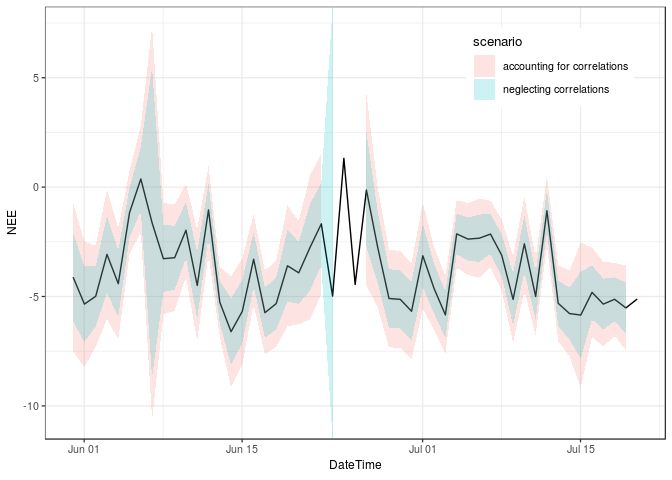
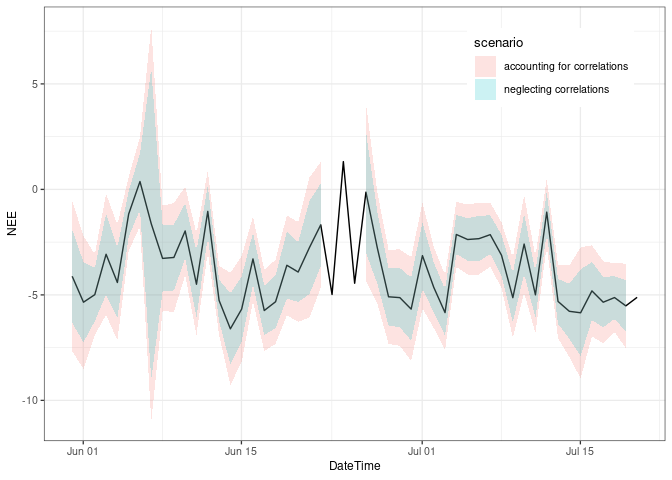
Docu fsd (#53)
* include uStar uncertainty in aggUncertainty vignette

* include uStar uncertainty in aggUncertainty vignette

* try fixing number display

that starts with 1 after each code-block.

* Update aggUncertainty.Rmd

Small clarification (by Ladislav) <sigut.l@czechglobe.cz>

diff --git a/vignettes/aggUncertainty.md b/vignettes/aggUncertainty.md
@@ -1,13 +1,11 @@
-Aggregating uncertainty to daily and annual values
-==================================================
+# Aggregating uncertainty to daily and annual values
 
-Example setup
--------------
+## Example setup
 
-We start with half-hourly *u*<sub>\*</sub>-filtered and gap-filled
-NEE\_f values. For simplicity this example uses data provided with the
-package and omits *u*<sub>\*</sub> threshold detection but rather
-applies a user-specified threshold.
+We start with half-hourly *u*<sub>\*</sub>-filtered and gapfilled NEE\_f
+values. For simplicity this example uses data provided with the package
+and omits *u*<sub>\*</sub> threshold detection but rather applies a
+user-specified threshold.
 
 With option `FillAll = TRUE`, an uncertainty, specifically the standard
 deviation, of the flux is estimated for each record during gapfilling
@@ -22,19 +20,57 @@ and stored in variable `NEE_uStar_fsd`.
       'DE-Tha', EddyDataWithPosix, c('NEE','Rg','Tair','VPD', 'Ustar'))
     EProc$sMDSGapFillAfterUstar('NEE', uStarTh = 0.3, FillAll = TRUE)
     results <- EProc$sExportResults() 
-    summary(results$NEE_uStar_fsd)
+    results_good <- results %>% filter(NEE_uStar_fqc <= 1) 
+    summary(results_good$NEE_uStar_fsd)
 
     ##     Min.  1st Qu.   Median     Mean  3rd Qu.     Max. 
-    ##  0.03535  1.69960  2.32796  2.74246  3.44417 24.55782
+    ##  0.03535  1.69194  2.31331  2.70544  3.39922 17.19675
 
 We can inspect, how the uncertainty scales with the flux magnitude.
 
-    plot( NEE_uStar_fsd ~ NEE_uStar_fall, slice(results, sample.int(nrow(results),400)))
+    results_good %>% slice(sample.int(nrow(results_good),400)) %>% 
+    plot( NEE_uStar_fsd ~ NEE_uStar_fall, data = . )
 
 ![](aggUncertainty_files/figure-markdown_strict/unnamed-chunk-3-1.png)
 
-Wrong aggregation without correlations
---------------------------------------
+## Omitting problematic records
+
+REddyProc flags filled data with poor gap-filling by a quality flag in
+`NEE_<uStar>_fqc` &gt; 0 but still reports the fluxes. For aggregation
+we recommend computing the mean including those gap-filled records,
+i.e. using `NEE_<uStar>_f` instead of `NEE_orig`. However, for
+estimating the uncertainty of the aggregated value, the the gap-filled
+records should not contribute to the reduction of uncertainty due to
+more replicates.
+
+Hence, first we create a column similar `NEE_orig_sd` to
+`NEE_<uStar>_fsd` but where the estimated uncertainty is set to missing
+for the gap-filled records.
+
+    results <- EProc$sExportResults() %>% 
+      mutate(
+        NEE_orig_sd = ifelse(
+          is.finite(.data$NEE_uStar_orig), .data$NEE_uStar_fsd, NA),
+        NEE_uStar_fgood = ifelse(
+          is.finite(.data$NEE_uStar_fqc <= 1), .data$NEE_uStar_f, NA)
+    )
+
+If the aggregated mean should be computed excluding poor
+quality-gap-filled data, then its best to use a column with values set
+to missing for poor quality, e.g. using `NEE_<uStar>_fgood` instead of
+`NEE_<uStar>_f`. However, the bias in aggregated results can be larger
+when omitting records, e.g. consistently omitting more low night-time
+fluxes, than with using poor estimates of those fluxes.
+
+## Random error
+
+For a given u\* threshold, the aggregation across time uses many
+records. The random error in each record, i.e. `NEE_fsd`, is only
+partially correlated to the random error to records close by. Hence, the
+relative uncertainty of the aggregated value decreases compared to the
+average relative uncertainty of the individual observations.
+
+### Wrong aggregation without correlations
 
 With neglecting correlations among records, the uncertainty of the mean
 annual flux is computed by adding the variances. The mean is computed by
@@ -43,24 +79,24 @@ $sd(m) = \\sqrt{Var(m)}= \\sqrt{\\sum{Var(x\_i)}/n^2} = \\sqrt{n \\bar{\\sigma^2
 This results in an approximate reduction of the average standard
 deviation $\\bar{\\sigma^2}$ by $\\sqrt{n}$.
 
-    results %>% filter(NEE_uStar_fqc == 0) %>% summarise(
-      nRec = sum(is.finite(NEE_uStar_f))
-      , varSum = sum(NEE_uStar_fsd^2, na.rm = TRUE)
+    results %>% summarise(
+      nRec = sum(is.finite(NEE_orig_sd))
+      , NEEagg = mean(NEE_uStar_f)
+      , varSum = sum(NEE_orig_sd^2, na.rm = TRUE)
       , seMean = sqrt(varSum) / nRec
-      , seMeanApprox = mean(NEE_uStar_fsd, na.rma = TRUE) / sqrt(nRec)
-      ) %>% select(nRec, seMean, seMeanApprox)
+      , seMeanApprox = mean(NEE_orig_sd, na.rm = TRUE) / sqrt(nRec)
+      ) %>% select(NEEagg, nRec, seMean, seMeanApprox)
 
-    ##    nRec     seMean seMeanApprox
-    ## 1 10901 0.02988839   0.02650074
+    ##      NEEagg  nRec     seMean seMeanApprox
+    ## 1 -1.657303 10901 0.02988839   0.02650074
 
 Due to the large number of records, the estimated uncertainty is very
 low.
 
-Considering correlations
-------------------------
+### Considering correlations
 
 When observations are not independent of each other, the formulas now
-become *V**a**r*(*m*)=*s*<sup>2</sup>/*n*<sub>*e**f**f*</sub> where
+become *V**a**r*(*m*) = *s*<sup>2</sup>/*n*<sub>*e**f**f*</sub> where
 $s^2 = \\frac{n\_{eff}}{n(n\_{eff}-1)} \\sum\_{i=1}^n \\sigma\_i^2$, and
 with the number of effective observations *n*<sub>*e**f**f*</sub>
 decreasing with the autocorrelation among records (Bayley 1946, Zieba
@@ -76,36 +112,43 @@ Var(m) = \\frac{s^2}{n\_{eff}}
 = \\frac{1}{n(n\_{eff}-1)} n \\bar{\\sigma^2\_i} = \\frac{\\bar{\\sigma^2\_i}}{(n\_{eff}-1)} 
 $$
 
-First we need to quantify the error terms, i.e. model-data residuals.
+First we need to quantify the error terms, i.e. model-data residuals.
 For all the records of good quality, we have an original measured value
 `NEE_uStar_orig` and modelled value from MDS gapfilling,
-`NEE_uStar_fall`. The residual of bad-quality data is set to missing.
+`NEE_uStar_fall`.
+
+For computing autocorrelation, equidistant time steps are important.
+Hence, instead of filtering, the residuals of bad-quality data are set
+to missing.
 
     results <- EProc$sExportResults() %>% 
       mutate(
-        resid = ifelse(NEE_uStar_fqc == 0, NEE_uStar_orig - NEE_uStar_fall, NA )
+        resid = ifelse(NEE_uStar_fqc == 0, NEE_uStar_orig - NEE_uStar_fall, NA)
+        ,NEE_orig_sd = ifelse(
+          is.finite(.data$NEE_uStar_orig), .data$NEE_uStar_fsd, NA)
       )
 
 Now we can inspect the the autocorrelation of the errors.
 
     acf(results$resid, na.action = na.pass, main = "")
 
-![](aggUncertainty_files/figure-markdown_strict/unnamed-chunk-6-1.png)
+![](aggUncertainty_files/figure-markdown_strict/unnamed-chunk-7-1.png)
 
 The empirical autocorrelation function shows strong positive
 autocorrelation in residuals up to a lag of 10 records.
 
 Computation of effective number of observations is provided by function
 `computeEffectiveNumObs` from package `lognorm` based on the empirical
-autocorrelation function for given model-data residuals.
+autocorrelation function for given model-data residuals. Note that this
+function needs to be applied to the series including all records, i.e. 
+not filtering quality flag before.
 
-    library(lognorm)
-    autoCorr <- computeEffectiveAutoCorr(results$resid)
-    nEff <- computeEffectiveNumObs(results$resid, na.rm = TRUE)
-    c( nEff = nEff, nObs = sum(is.finite(results$resid)))
+    autoCorr <- lognorm::computeEffectiveAutoCorr(results$resid)
+    nEff <- lognorm::computeEffectiveNumObs(results$resid, na.rm = TRUE)
+    c(nEff = nEff, nObs = sum(is.finite(results$resid)))
 
     ##      nEff      nObs 
-    ##  3870.283 10901.000
+    ##  4230.522 10901.000
 
 We see that the effective number of observations is only about a third
 of the number of observations.
@@ -113,19 +156,26 @@ of the number of observations.
 Now we can use the formulas for the sum and the mean of correlated
 normally distributed variables to compute the uncertainty of the mean.
 
-    results %>% filter(NEE_uStar_fqc == 0) %>% summarise(
-      nRec = sum(is.finite(NEE_uStar_fsd))
-      , varMean = sum(NEE_uStar_fsd^2, na.rm = TRUE) / nRec / (!!nEff - 1)
+    resRand <- results %>% summarise(
+      nRec = sum(is.finite(NEE_orig_sd))
+      , NEEagg = mean(NEE_uStar_f, na.rm = TRUE)
+      , varMean = sum(NEE_orig_sd^2, na.rm = TRUE) / nRec / (!!nEff - 1)
       , seMean = sqrt(varMean) 
-      #, seMean2 = sqrt(mean(NEE_uStar_fsd^2, na.rm = TRUE)) / sqrt(!!nEff - 1)
-      , seMeanApprox = mean(NEE_uStar_fsd, na.rm = TRUE) / sqrt(!!nEff - 1)
-      ) %>% select(seMean, seMeanApprox)
+      #, seMean2 = sqrt(mean(NEE_orig_sd^2, na.rm = TRUE)) / sqrt(!!nEff - 1)
+      , seMeanApprox = mean(NEE_orig_sd, na.rm = TRUE) / sqrt(!!nEff - 1)
+      ) %>% select(NEEagg, seMean, seMeanApprox)
+    resRand
 
-    ##       seMean seMeanApprox
-    ## 1 0.05016727   0.04448115
+    ##      NEEagg     seMean seMeanApprox
+    ## 1 -1.657303 0.04798329   0.04254471
 
-Daily aggregation
------------------
+The aggregated value is the same, but its uncertainty increased compared
+to the computation neglecting correlations.
+
+Note, how we used `NEE_uStar_f` for computing the mean, but
+`NEE_orig_sd` instead of `NEE_uStar_fsd` for computing the uncertainty.
+
+### Daily aggregation
 
 When aggregating daily respiration, the same principles hold.
 
@@ -135,38 +185,46 @@ longer time series of residuals (`autoCorr` computed above) in
 `computeEffectiveNumObs` instead of estimating them from the residuals
 of each day.
 
+First, create a column DoY to subset records of each day.
+
     results <- results %>% mutate(
-      DateTime = EddyDataWithPosix$DateTime
+      DateTime = EddyDataWithPosix$DateTime     # take time stamp form input data
       , DoY = as.POSIXlt(DateTime - 15*60)$yday # midnight belongs to the previous
     )
 
-    aggDay <- results %>% group_by(DoY) %>% 
+Now the aggregation can be done on data grouped by DoY. The notation
+`!!` tells `summarise` to use the variable `autoCorr` instead of a
+column with that name.
+
+    aggDay <- results %>% 
+      group_by(DoY) %>% 
       summarise(
         DateTime = first(DateTime)
-        , nRec = sum( NEE_uStar_fqc == 0, na.rm = TRUE)
-        , nEff = computeEffectiveNumObs(
+        ,nEff = lognorm::computeEffectiveNumObs(
            resid, effAcf = !!autoCorr, na.rm = TRUE)
+        , nRec = sum(is.finite(NEE_orig_sd))
         , NEE = mean(NEE_uStar_f, na.rm = TRUE)
         , sdNEE = if (nEff <= 1) NA_real_ else sqrt(
-          mean(NEE_uStar_fsd^2, na.rm = TRUE) / (nEff - 1)) 
-        , sdNEEuncorr = if (nRec == 0) NA_real_ else sqrt(
-           mean(NEE_uStar_fsd^2, na.rm = TRUE) / (nRec - 1))
+          mean(NEE_orig_sd^2, na.rm = TRUE) / (nEff - 1)) 
+        , sdNEEuncorr = if (nRec <= 1) NA_real_ else sqrt(
+           mean(NEE_orig_sd^2, na.rm = TRUE) / (nRec - 1))
+        , .groups = "drop_last"
       )
     aggDay
 
     ## # A tibble: 365 x 7
-    ##      DoY DateTime             nRec  nEff      NEE  sdNEE sdNEEuncorr
-    ##    <int> <dttm>              <int> <dbl>    <dbl>  <dbl>       <dbl>
-    ##  1     0 1998-01-01 00:30:00    21  7.87  0.124    0.988       0.579
-    ##  2     1 1998-01-02 00:30:00     7  3.66  0.00610  1.57        1.05 
-    ##  3     2 1998-01-03 00:30:00     0  0     0.0484  NA          NA    
-    ##  4     3 1998-01-04 00:30:00     0  0     0.303   NA          NA    
-    ##  5     4 1998-01-05 00:30:00    28 10.9   0.195    0.851       0.515
-    ##  6     5 1998-01-06 00:30:00    48 18.0   0.926    0.615       0.370
-    ##  7     6 1998-01-07 00:30:00    48 18.0  -0.337    0.566       0.340
-    ##  8     7 1998-01-08 00:30:00    46 17.2  -0.139    0.541       0.325
-    ##  9     8 1998-01-09 00:30:00    45 16.8   0.614    0.482       0.289
-    ## 10     9 1998-01-10 00:30:00    36 13.5   0.242    0.646       0.386
+    ##      DoY DateTime             nEff  nRec      NEE  sdNEE sdNEEuncorr
+    ##    <int> <dttm>              <dbl> <int>    <dbl>  <dbl>       <dbl>
+    ##  1     0 1998-01-01 00:30:00 11.0     21  0.124    0.760       0.536
+    ##  2     1 1998-01-02 00:30:00  3.66     7  0.00610  1.56        1.04 
+    ##  3     2 1998-01-03 00:30:00  0        0  0.0484  NA          NA    
+    ##  4     3 1998-01-04 00:30:00  0        0  0.303   NA          NA    
+    ##  5     4 1998-01-05 00:30:00 10.9     28  0.195    0.861       0.521
+    ##  6     5 1998-01-06 00:30:00 18.0     48  0.926    0.615       0.370
+    ##  7     6 1998-01-07 00:30:00 18.0     48 -0.337    0.566       0.340
+    ##  8     7 1998-01-08 00:30:00 17.7     46 -0.139    0.525       0.320
+    ##  9     8 1998-01-09 00:30:00 17.5     45  0.614    0.474       0.290
+    ## 10     9 1998-01-10 00:30:00 15.4     36  0.242    0.641       0.411
     ## # … with 355 more rows
 
 ![](aggUncertainty_files/figure-markdown_strict/uncBand-1.png)
@@ -174,3 +232,88 @@ of each day.
 The confidence bounds (+-1.96 stdDev) computed with accounting for
 correlations in this case are about twice the ones computed with
 neglecting correlations.
+
+## u\* threshold uncertainty
+
+There is also uncertainty due to unknown u\* threshold. Since, the same
+threshold is used for all times in a given uStar scenario, the relative
+uncertainty of this component does not decrease when aggregating across
+time.
+
+The strategy is to
+
+1\. estimate distribution of u\* threshold
+
+2\. compute time series of NEE (or other values of interest) for draws
+from this distribution, i.e. for many uStar-scenarios
+
+3\. compute each associated aggregated value
+
+4\. and then look at the distribution of the aggregated values.
+
+Note that the entire processing down to the aggregated value has to be
+repeated for each uStar scenario. Hence, obtaining a good estimate of
+this uncertainty is computationally expensive.
+
+1\. First, we estimate many samples of the probability density of the
+unknown uStar threshold.
+
+    # for run-time of the vignette creation, here we use only few uStar quantiles
+    # For real-world applications, a larger sample is required.
+    nScen <- 3 # nScen <- 39
+
+    EddyDataWithPosix <- Example_DETha98 %>% 
+      filterLongRuns("NEE") %>% 
+      fConvertTimeToPosix('YDH',Year = 'Year',Day = 'DoY', Hour = 'Hour')
+    EProc <- sEddyProc$new(
+      'DE-Tha', EddyDataWithPosix, c('NEE','Rg','Tair','VPD', 'Ustar'))
+    EProc$sEstimateUstarScenarios( 
+      nSample = nScen*4, probs = seq(0.025,0.975,length.out = nScen) )
+    uStarSuffixes <- colnames(EProc$sGetUstarScenarios())[-1]
+    uStarSuffixes # in real world should use > 30
+
+    ## [1] "uStar" "U2.5"  "U50"   "U97.5"
+
+2\. Produce time series of gapfilled NEE for each scenario. They are
+stored in columns distinguished by a suffix with the quantile.
+
+    EProc$sMDSGapFillUStarScens('NEE')
+
+3\. Compute the annual mean for each scenario. Method
+`sEddyProc_sApplyUStarScen` calls a user-provided function that takes an
+argument suffix for each u\*-threshold scenario. Here, we use it to
+create the corresponding NEE column name and compute mean across this
+column in the data exported from REddyProc.
+
+    computeMeanNEE <- function(ds, suffix){
+      column_name <- paste0("NEE_",suffix,"_f")
+      mean(ds[[column_name]])
+    }
+    FilledEddyData <- EProc$sExportResults()
+    NEEagg <- unlist(EProc$sApplyUStarScen(computeMeanNEE, FilledEddyData))
+    NEEagg
+
+    ##     uStar      U2.5       U50     U97.5 
+    ## -1.616926 -1.630803 -1.618933 -1.646267
+
+4\. compute uncertainty across aggregated values
+
+    sdNEEagg_ustar <- sd(NEEagg)
+    sdNEEagg_ustar
+
+    ## [1] 0.01349296
+
+## Combined aggregated uncertainty
+
+Assuming that the uncertainty due to unknown u\*threshold is independent
+from the random uncertainty, the variances add.
+
+    sdAnnual <- data.frame(
+      sdRand = resRand$seMean,
+      sdUstar = sdNEEagg_ustar,
+      sdComb = sqrt(resRand$seMean^2 + sdNEEagg_ustar^2) 
+    )
+    sdAnnual
+
+    ##       sdRand    sdUstar     sdComb
+    ## 1 0.04798329 0.01349296 0.04984432
